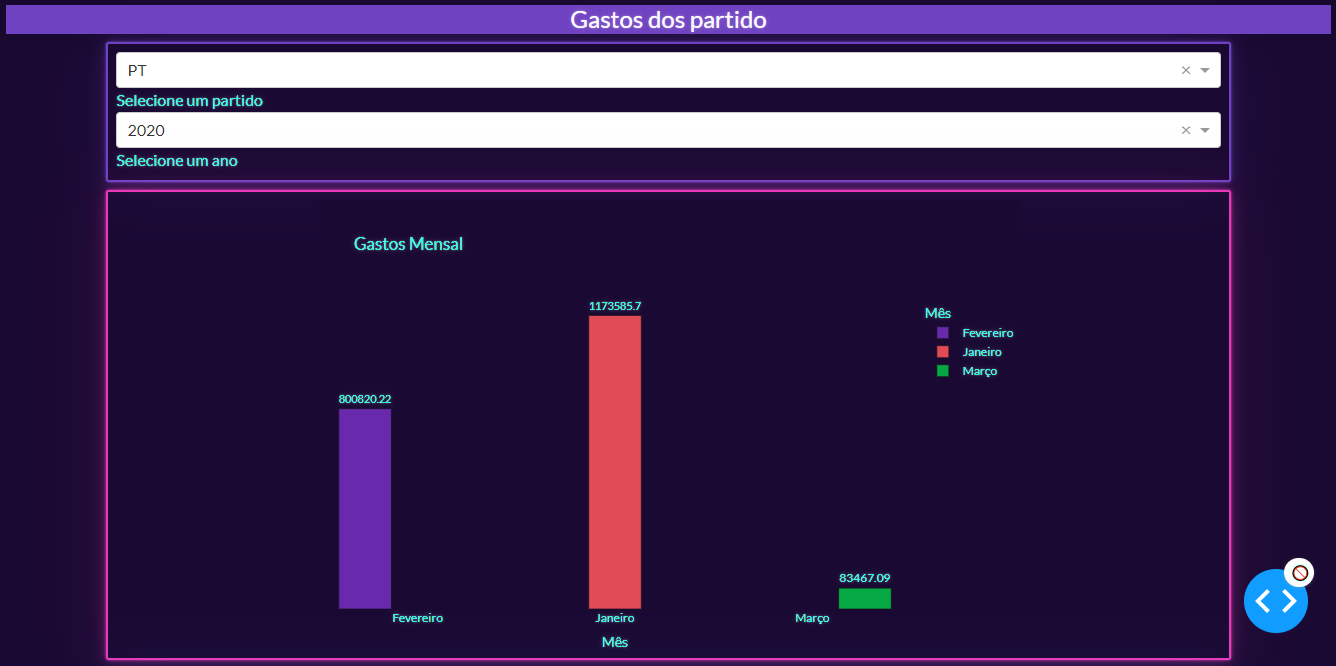
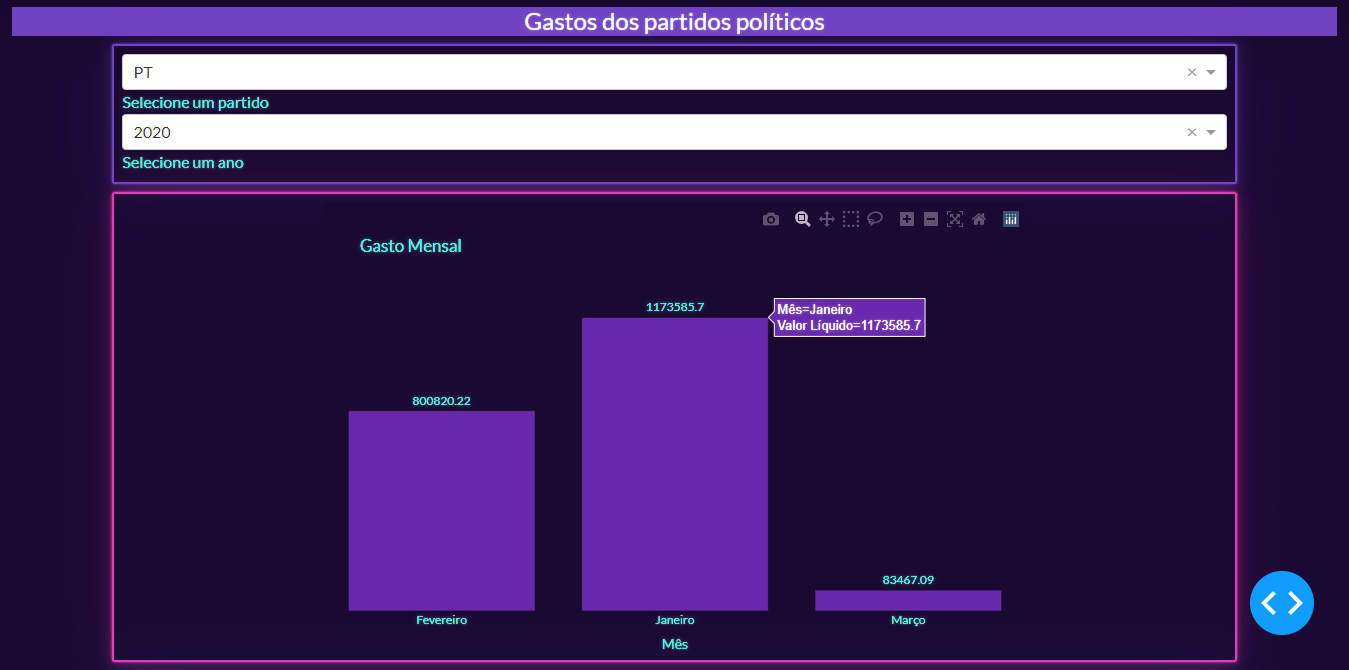
Atualizando graficos

diff --git a/gastos_partidos/dashboard.py b/gastos_partidos/dashboard.py
@@ -71,7 +71,7 @@ header = html.H4(
 valor_partido = group_valor_partido[(group_valor_partido['Partido'] == 'PT') & (group_valor_partido['Ano'] == 2020)]
 valor_descricao = group_valor_descricao[(group_valor_descricao['Partido'] == 'PT') & (group_valor_descricao['Ano'] == 2020)]
 
-fig = px.bar(valor_partido, x="Mês", y="Valor Líquido", barmode="group", title="Gastos Mensal", color="Mês", text='Valor Líquido', template="vapor")
+fig = px.bar(valor_partido, x="Mês", y="Valor Líquido", barmode="group", title="Gasto Mensal", color="Mês", text='Valor Líquido', template="vapor")
 fig.update_traces(textfont_size=12, textangle=0, textposition="outside", cliponaxis=False)
 fig.update_yaxes(visible=False, showticklabels=False)
 
@@ -136,10 +136,9 @@ def chem_info_on_hover(partido_hoverData, ano_hoverData):
     valor_partido = group_valor_partido[(group_valor_partido['Partido'] == partido_hoverData) & (group_valor_partido['Ano'] == ano_hoverData)]
     valor_descricao = group_valor_descricao[(group_valor_descricao['Partido'] == partido_hoverData) & (group_valor_descricao['Ano'] == ano_hoverData)]
 
-    fig = px.bar(valor_partido, x="Mês", y="Valor Líquido", barmode="group", title="Gastos Mensal", color="Mês", text='Valor Líquido', template="vapor")
+    fig = px.bar(valor_partido, x="Mês", y="Valor Líquido", barmode="group", title="Gasto Mensal", text='Valor Líquido', template="vapor")
     fig.update_traces(textfont_size=12, textangle=0, textposition="outside", cliponaxis=False)
     fig.update_yaxes(visible=False, showticklabels=False)
-
 
     fig2 = px.bar(valor_descricao, y="Descrição", x="Valor Líquido", barmode="group", title="Gastos por Categoria", orientation='h', text='Valor Líquido', template="vapor")
     fig2.update_traces(textfont_size=12, textangle=0, textposition="outside", cliponaxis=False)
